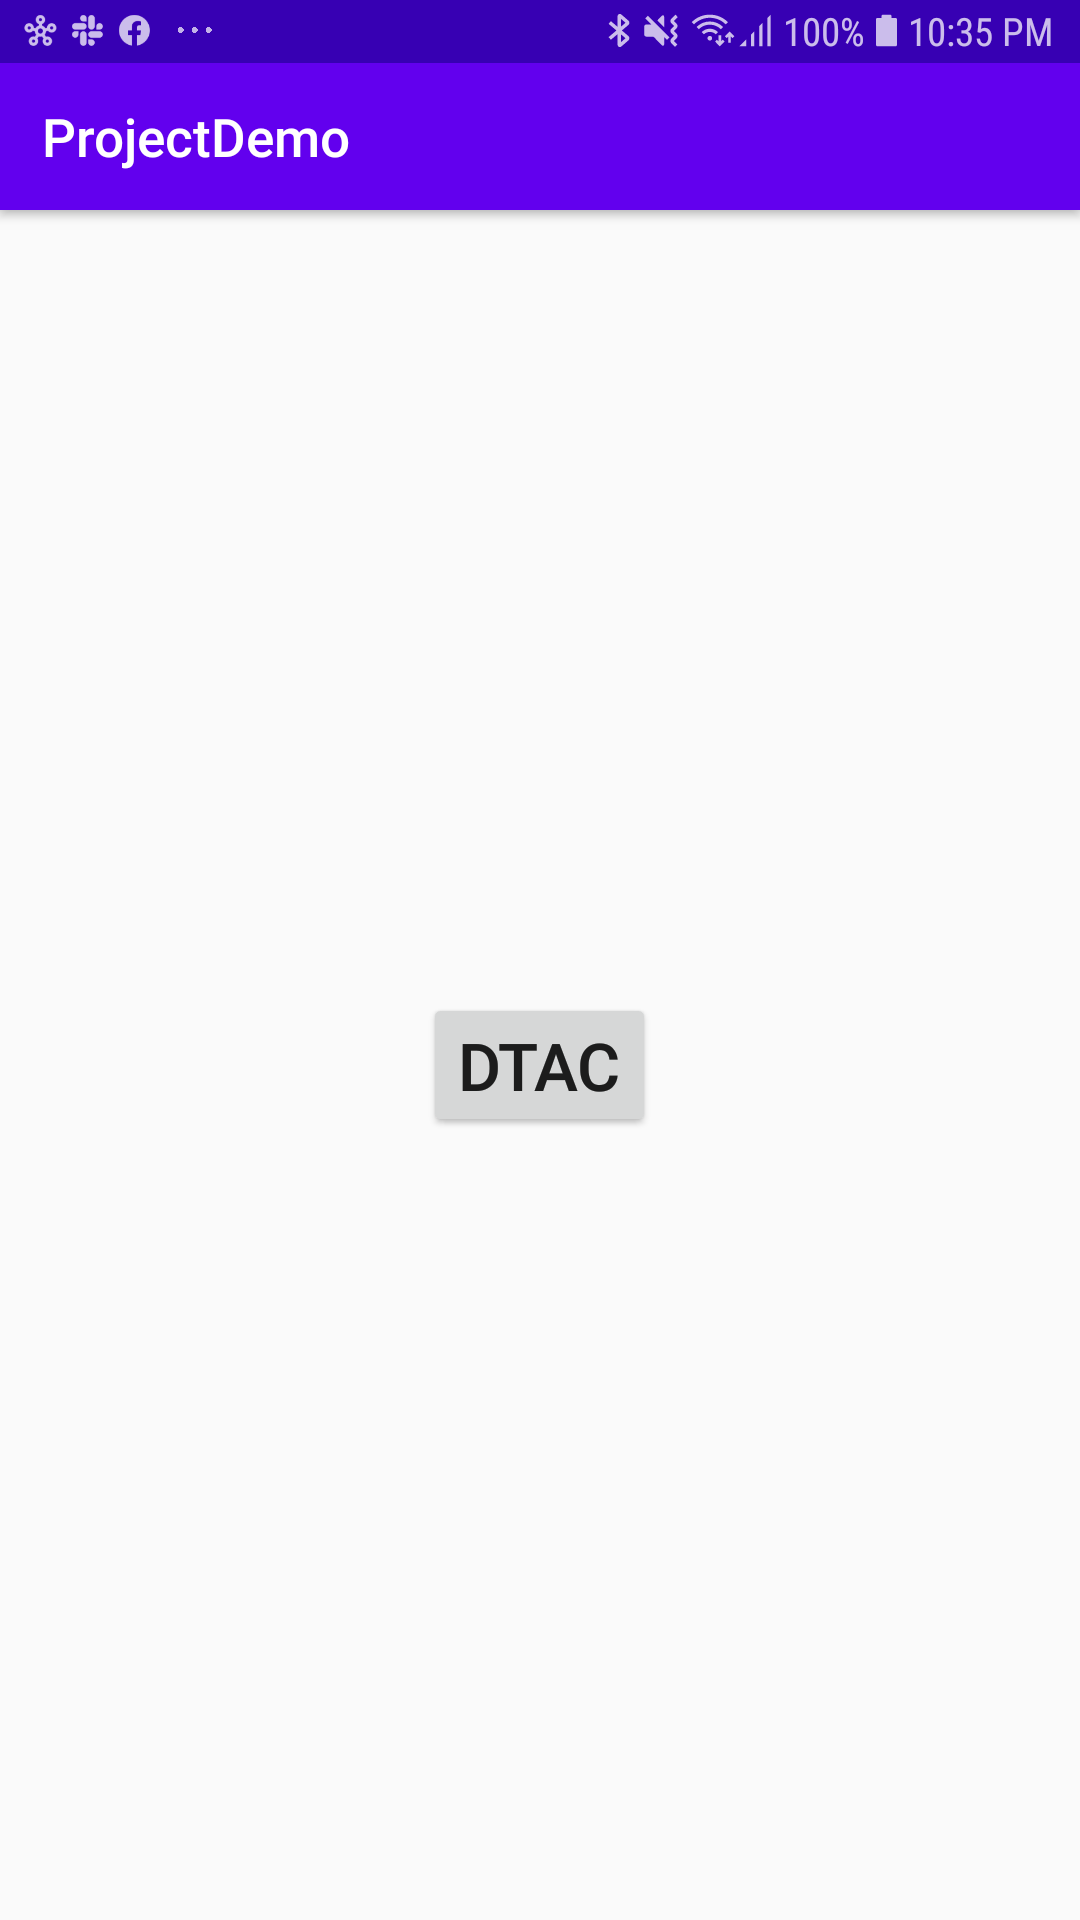
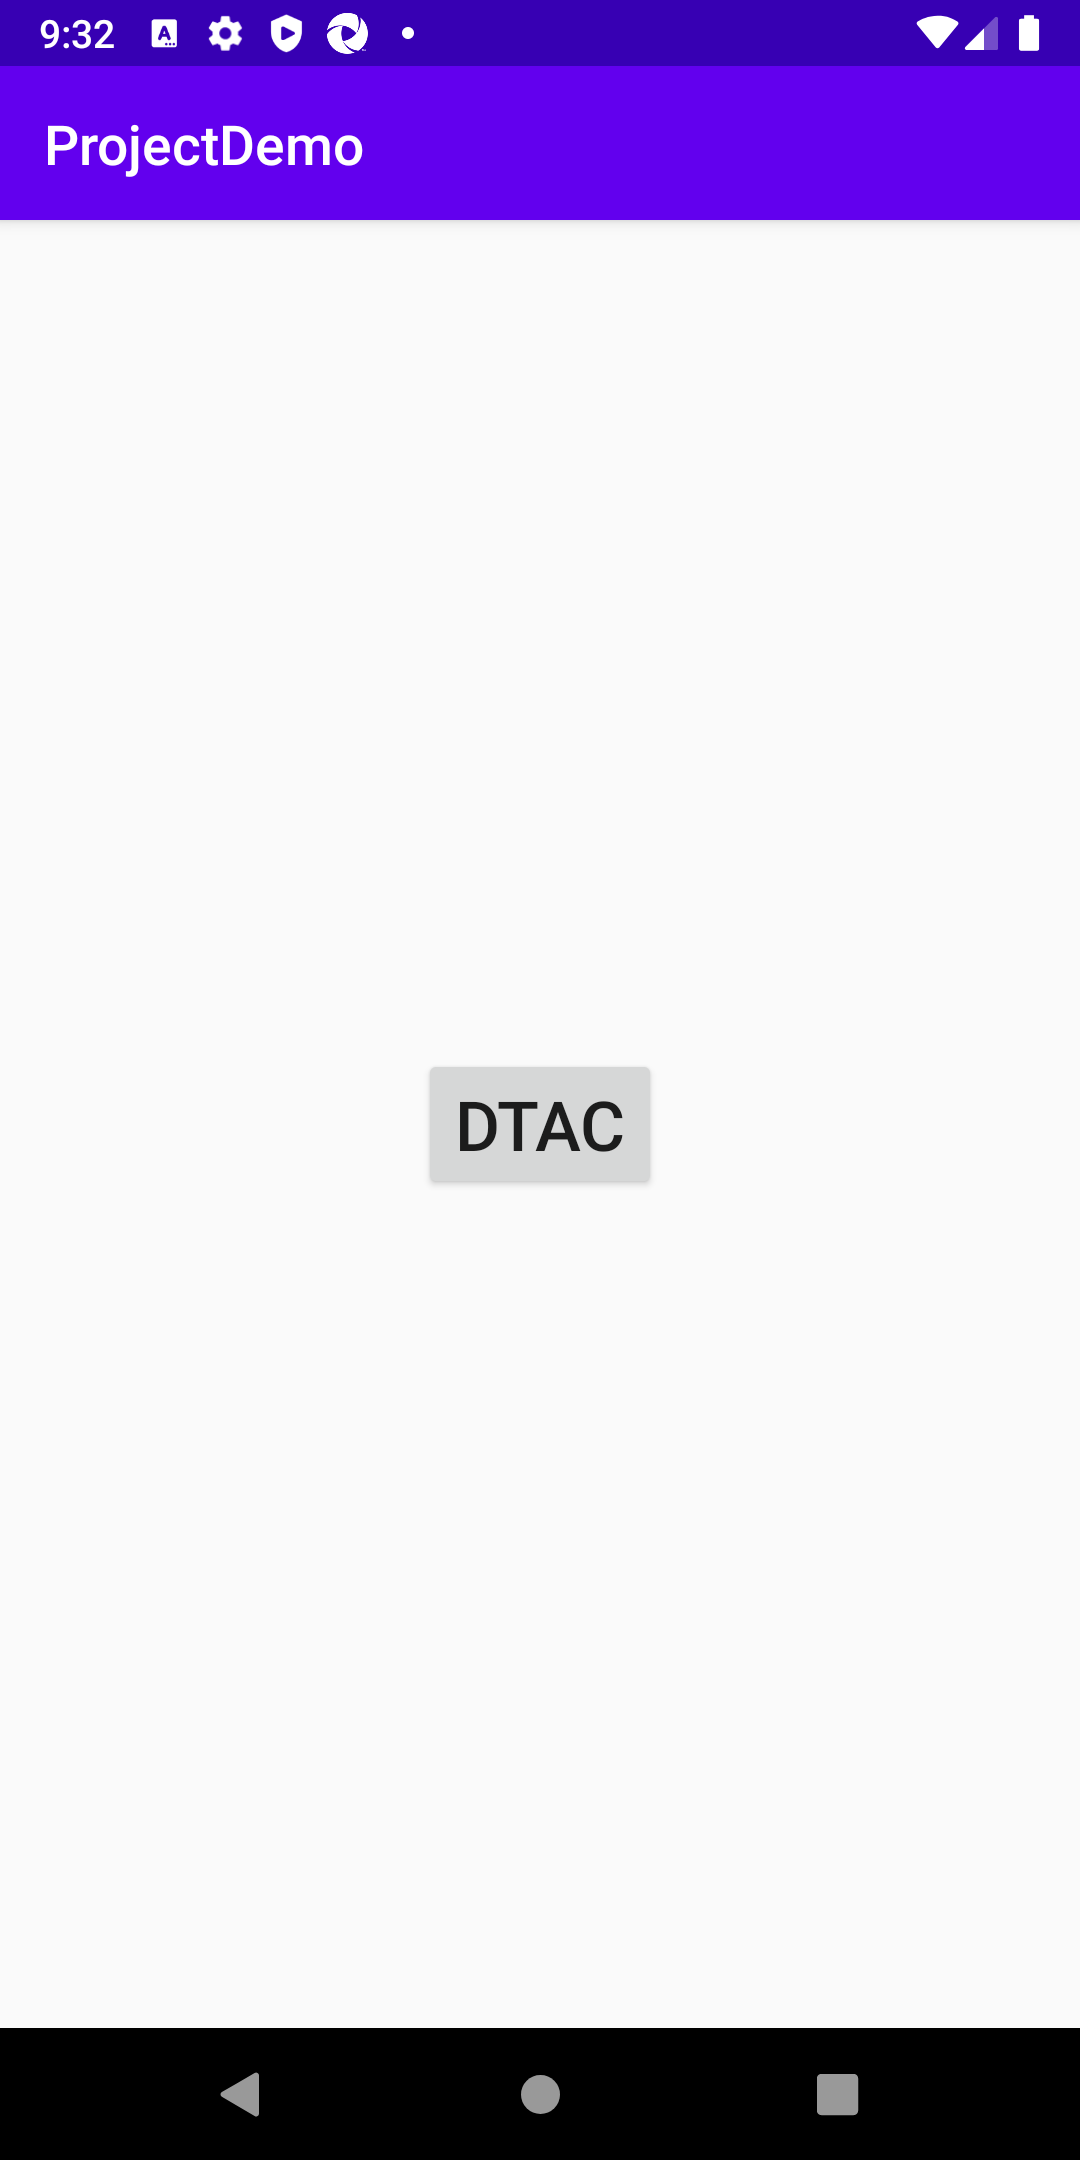
edit platform version ,devicename

diff --git a/Result/log.html b/Result/log.html
@@ -1732,28 +1732,28 @@ function stopPropagation(event) {
 window.output = {};
 </script>
 <script type="text/javascript">
-window.output["suite"] = [1,2,3,0,[],[0,0,194],[],[[4,0,1,0,[],[0,140,54,5],[[0,6,0,0,0,0,0,0,[0,140,53],[[0,7,8,0,9,10,0,0,[0,141,52],[[0,11,0,0,0,0,0,0,[0,141,52],[[0,12,13,0,14,15,0,0,[0,142,50],[[0,16,13,0,17,0,0,0,[0,186,4],[],[[189,5,18]]]],[[190,3,20],[192,5,5]]]],[]]],[]]],[]]]]],[],[1,0,1,0]];
+window.output["suite"] = [1,2,3,0,[],[1,0,17748],[],[[4,0,1,0,[],[1,325,17421],[[0,5,0,0,0,0,0,0,[1,326,14253],[[0,6,7,0,8,9,0,0,[1,326,14253],[[0,10,0,0,0,0,0,0,[1,327,14252],[[0,11,12,0,13,14,0,0,[1,328,14251],[],[]]],[]]],[]]],[]],[0,15,0,0,0,0,0,0,[1,14580,1152],[[0,16,12,0,17,18,0,0,[1,14580,1151],[],[[14581,2,19]]]],[]],[0,20,0,0,0,0,0,0,[1,15732,2014],[[0,21,12,0,22,0,0,0,[1,15732,463],[],[[16195,2,23]]],[0,24,12,0,25,0,0,0,[1,16196,1550],[],[]]],[]]]]],[],[1,1,1,1]];
 </script>
 <script type="text/javascript">
 window.output["strings"] = [];
 </script>
 <script type="text/javascript">
-window.output["strings"] = window.output["strings"].concat(["*","*Demo test","*/Users/tararatwongsansee/NRM-M_Project/Demo_test.robot","*../Demo_test.robot","*test_demo","*WebDriverException: Message: An unknown server-side error occurred while processing the command. Original error: New app path '/Users/tararatwongsansee/Library/Developer/Xcode/DerivedData/ProjectDemo-gpsiifkdlcoevefdnzzsvuqgxaig/Build/Products/Debug-iphonesimulator/ProjectDemo.app' did not have extension(s) '.apk,.apks'\n","*Open App","*Run Keyword If","*BuiltIn","*<p>Runs the given keyword with the given arguments, if <code>condition\x3c/code> is true.\x3c/p>","*\"${PLATFORM}\"==\"Android\", Android Open app, ELSE IF, \"${PLATFORM}\"==\"iOS\", iOS Open App","*iOS Open App","*Open Application","*AppiumLibrary","*<p>Opens a new application to given Appium server.\x3c/p>","*${REMOTE_URL}, platformName=${PLATFORM_NAME}, platformVersion=13.5, deviceName=iPhone 8, app=${APP_LOCATION}","*Capture Page Screenshot","*<p>Takes a screenshot of the current page and embeds it into the log.\x3c/p>","*No application is open","*s1-t1-k1-k1-k1-k1","*Keyword 'Capture Page Screenshot' could not be run on failure: No application is open"]);
+window.output["strings"] = window.output["strings"].concat(["*","*Demo test","*/Users/tararatwongsansee/NRM-M_Project/Demo_test.robot","*../Demo_test.robot","*test_demo","*Open App","*Run Keyword If","*BuiltIn","*<p>Runs the given keyword with the given arguments, if <code>condition\x3c/code> is true.\x3c/p>","*\"${PLATFORM}\"==\"Android\", Android Open app, ELSE IF, \"${PLATFORM}\"==\"iOS\", iOS Open App","*Android Open app","*Open Application","*AppiumLibrary","*<p>Opens a new application to given Appium server.\x3c/p>","*${REMOTE_URL}, platformName=${PLATFORM_NAME}, platformVersion=${PLATFORM_VERSION}, deviceName=${DEVICE_NAME}, appPackage=${APP_PACKAGE}, appActivity=${APP_ACTIVITY}","*Verify text button","*Element Text Should Be","*<p>Verifies element identified by <code>locator\x3c/code> exactly contains text <code>expected\x3c/code>.\x3c/p>","*${txtbutton}, ${txtDtac}","*Verifying element 'xpath=//android.widget.Button[contains(@resource-id,'btnTest')]' contains exactly text 'DTAC'.","*Close All Apps","*Capture Page Screenshot","*<p>Takes a screenshot of the current page and embeds it into the log.\x3c/p>","*\x3c/td>\x3c/tr><tr><td colspan=\"3\"><a href=\"appium-screenshot-1.png\"><img src=\"appium-screenshot-1.png\" width=\"800px\">\x3c/a>","*Close All Applications","*<p>Closes all open applications.\x3c/p>"]);
 </script>
 <script type="text/javascript">
-window.output["stats"] = [[{"elapsed":"00:00:00","fail":1,"label":"Critical Tests","pass":0},{"elapsed":"00:00:00","fail":1,"label":"All Tests","pass":0}],[],[{"elapsed":"00:00:00","fail":1,"id":"s1","label":"Demo test","name":"Demo test","pass":0}]];
+window.output["stats"] = [[{"elapsed":"00:00:17","fail":0,"label":"Critical Tests","pass":1},{"elapsed":"00:00:17","fail":0,"label":"All Tests","pass":1}],[],[{"elapsed":"00:00:18","fail":0,"id":"s1","label":"Demo test","name":"Demo test","pass":1}]];
 </script>
 <script type="text/javascript">
-window.output["errors"] = [[190,3,20,19]];
+window.output["errors"] = [];
 </script>
 <script type="text/javascript">
-window.output["baseMillis"] = 1598200711627;
+window.output["baseMillis"] = 1598279518918;
 </script>
 <script type="text/javascript">
-window.output["generated"] = 204;
+window.output["generated"] = 17764;
 </script>
 <script type="text/javascript">
-window.settings = {"defaultLevel":"INFO","minLevel":"WARN","reportURL":"report.html","splitLogBase":"log","title":""};
+window.settings = {"defaultLevel":"INFO","minLevel":"INFO","reportURL":"report.html","splitLogBase":"log","title":""};
 </script>
 <title></title>
 </head>

diff --git a/Result/report.html b/Result/report.html
@@ -1582,22 +1582,22 @@ storage = function () {
 window.output = {};
 </script>
 <script type="text/javascript">
-window.output["suite"] = [1,2,3,0,[],[0,0,194],[],[[4,0,1,0,[],[0,140,54,5],[]]],[],[1,0,1,0]];
+window.output["suite"] = [1,2,3,0,[],[1,0,17748],[],[[4,0,1,0,[],[1,325,17421],[]]],[],[1,1,1,1]];
 </script>
 <script type="text/javascript">
 window.output["strings"] = [];
 </script>
 <script type="text/javascript">
-window.output["strings"] = window.output["strings"].concat(["*","*Demo test","*/Users/tararatwongsansee/NRM-M_Project/Demo_test.robot","*../Demo_test.robot","*test_demo","*WebDriverException: Message: An unknown server-side error occurred while processing the command. Original error: New app path '/Users/tararatwongsansee/Library/Developer/Xcode/DerivedData/ProjectDemo-gpsiifkdlcoevefdnzzsvuqgxaig/Build/Products/Debug-iphonesimulator/ProjectDemo.app' did not have extension(s) '.apk,.apks'\n"]);
+window.output["strings"] = window.output["strings"].concat(["*","*Demo test","*/Users/tararatwongsansee/NRM-M_Project/Demo_test.robot","*../Demo_test.robot","*test_demo"]);
 </script>
 <script type="text/javascript">
-window.output["stats"] = [[{"elapsed":"00:00:00","fail":1,"label":"Critical Tests","pass":0},{"elapsed":"00:00:00","fail":1,"label":"All Tests","pass":0}],[],[{"elapsed":"00:00:00","fail":1,"id":"s1","label":"Demo test","name":"Demo test","pass":0}]];
+window.output["stats"] = [[{"elapsed":"00:00:17","fail":0,"label":"Critical Tests","pass":1},{"elapsed":"00:00:17","fail":0,"label":"All Tests","pass":1}],[],[{"elapsed":"00:00:18","fail":0,"id":"s1","label":"Demo test","name":"Demo test","pass":1}]];
 </script>
 <script type="text/javascript">
-window.output["baseMillis"] = 1598200711627;
+window.output["baseMillis"] = 1598279518918;
 </script>
 <script type="text/javascript">
-window.output["generated"] = 204;
+window.output["generated"] = 17764;
 </script>
 <script type="text/javascript">
 window.settings = {"background":{"fail":"#f66","nonCriticalFail":"#9e9","pass":"#9e9"},"logURL":"log.html","title":""};
